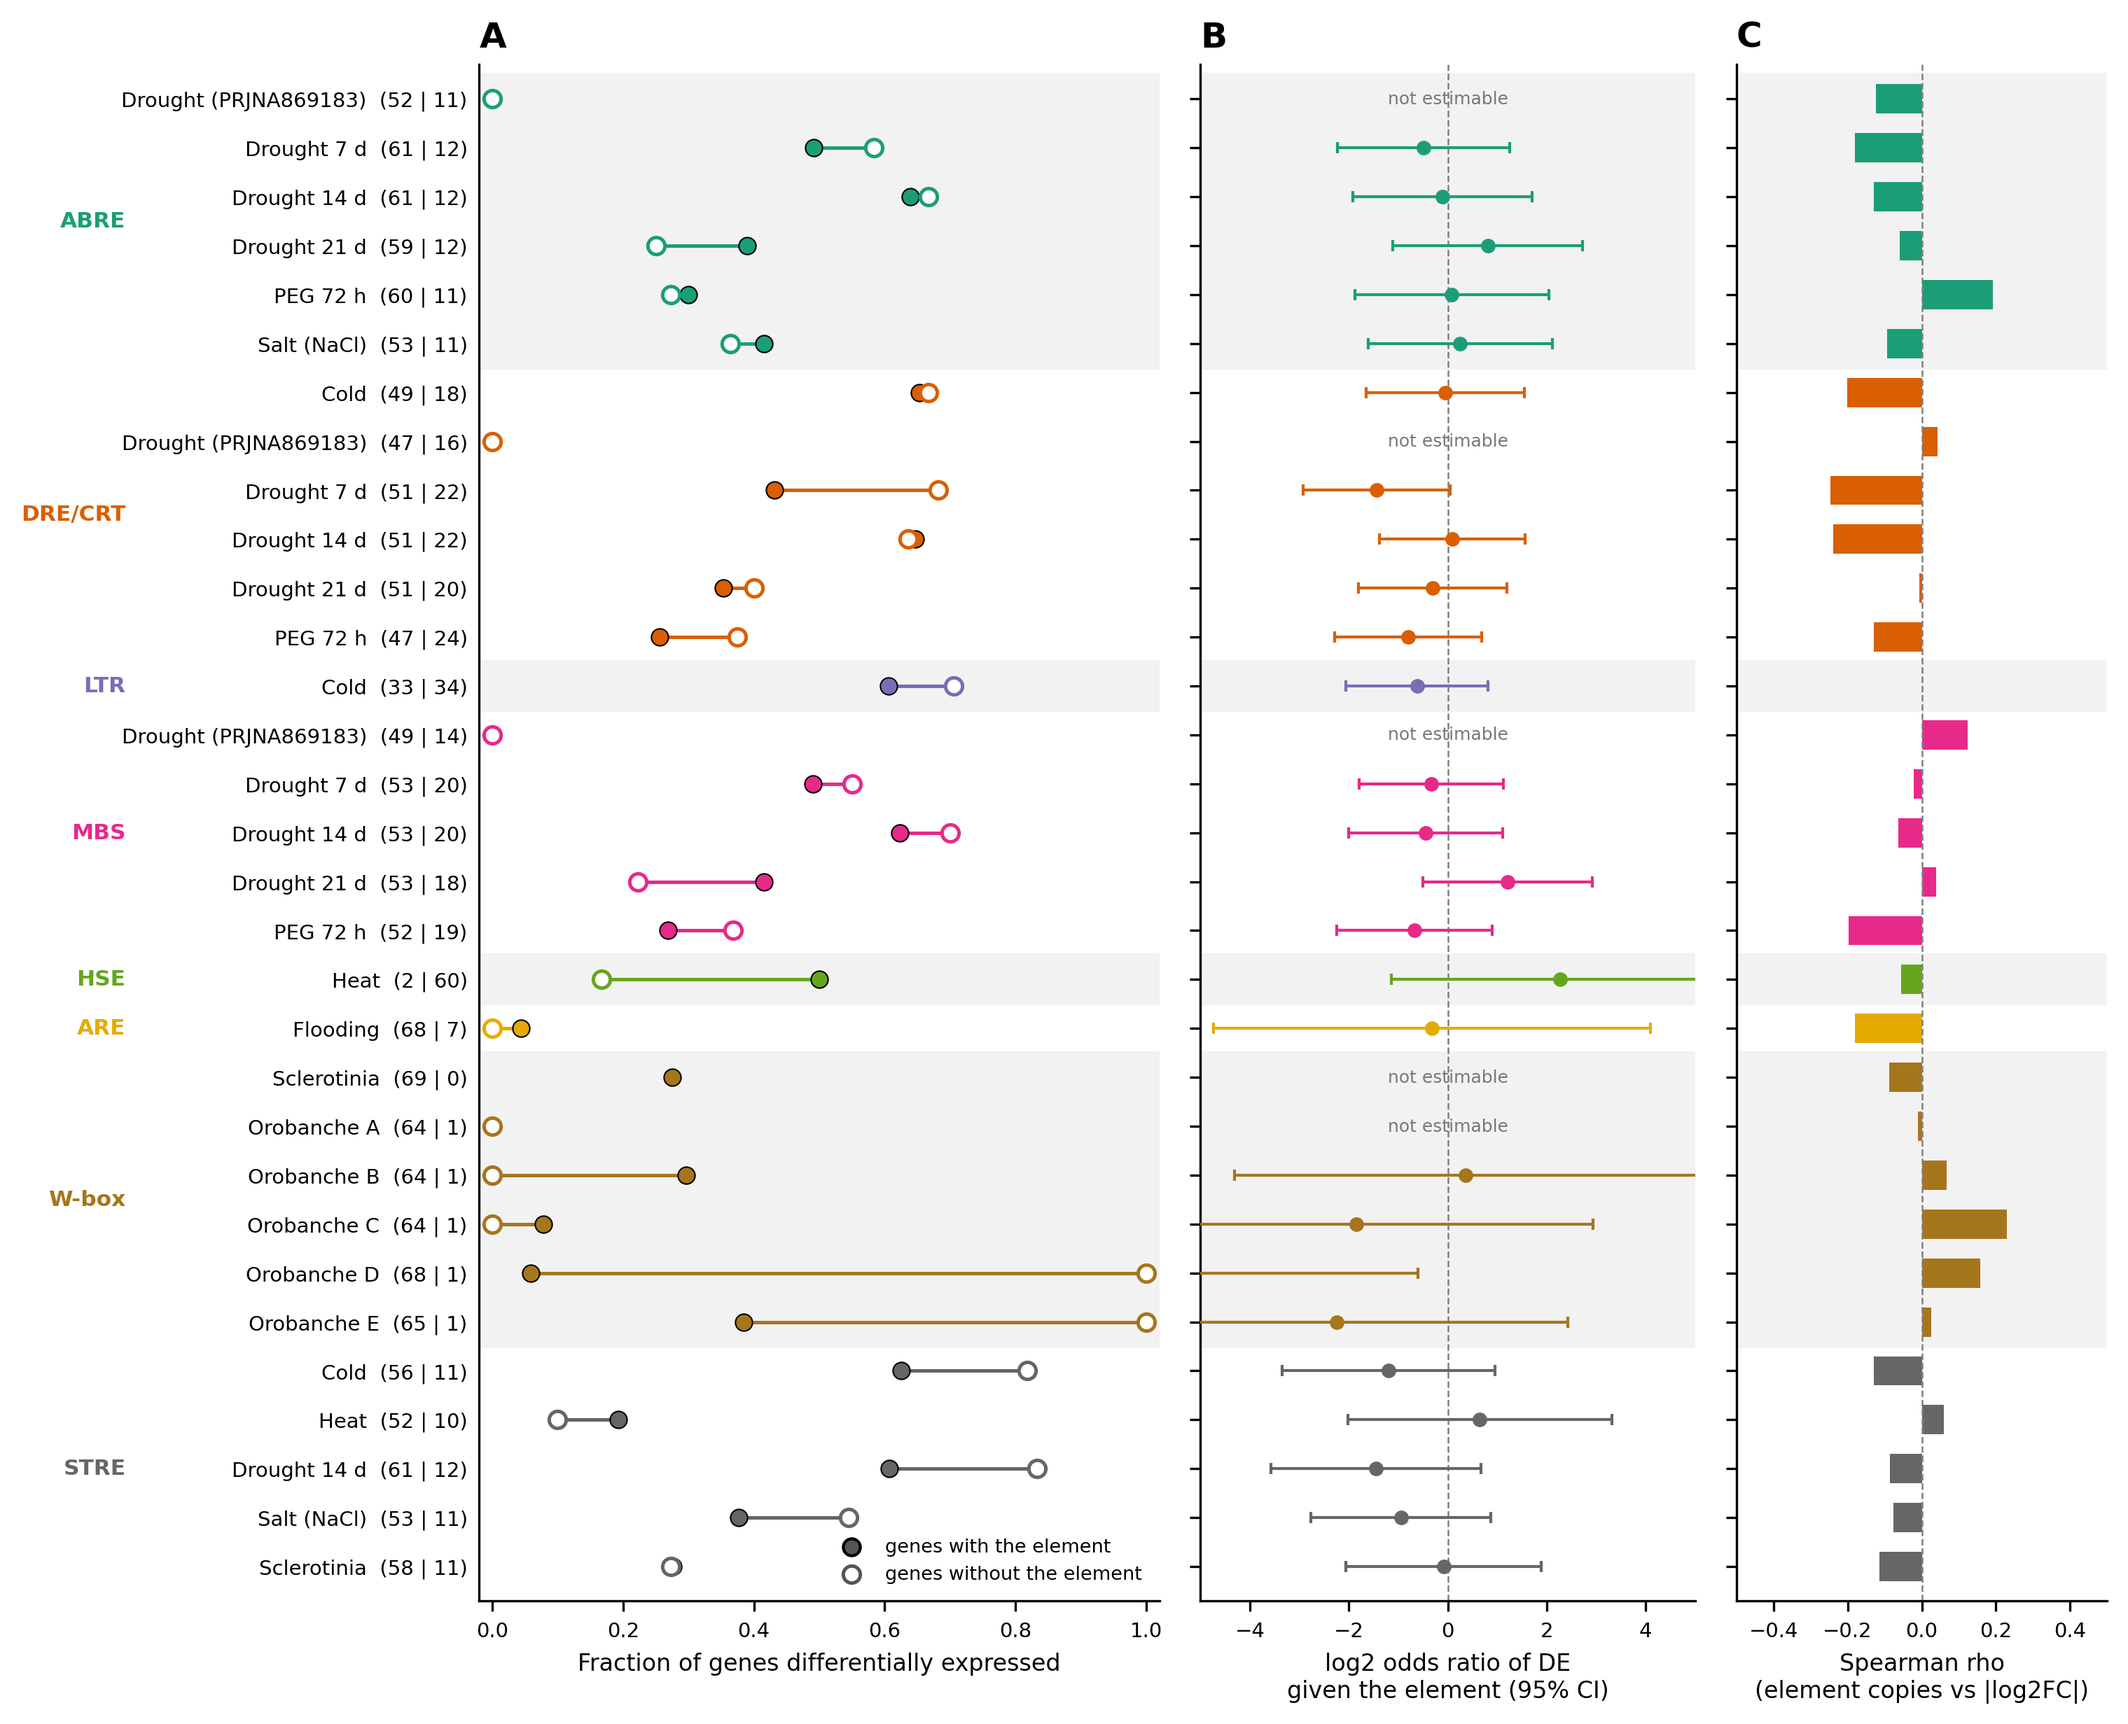
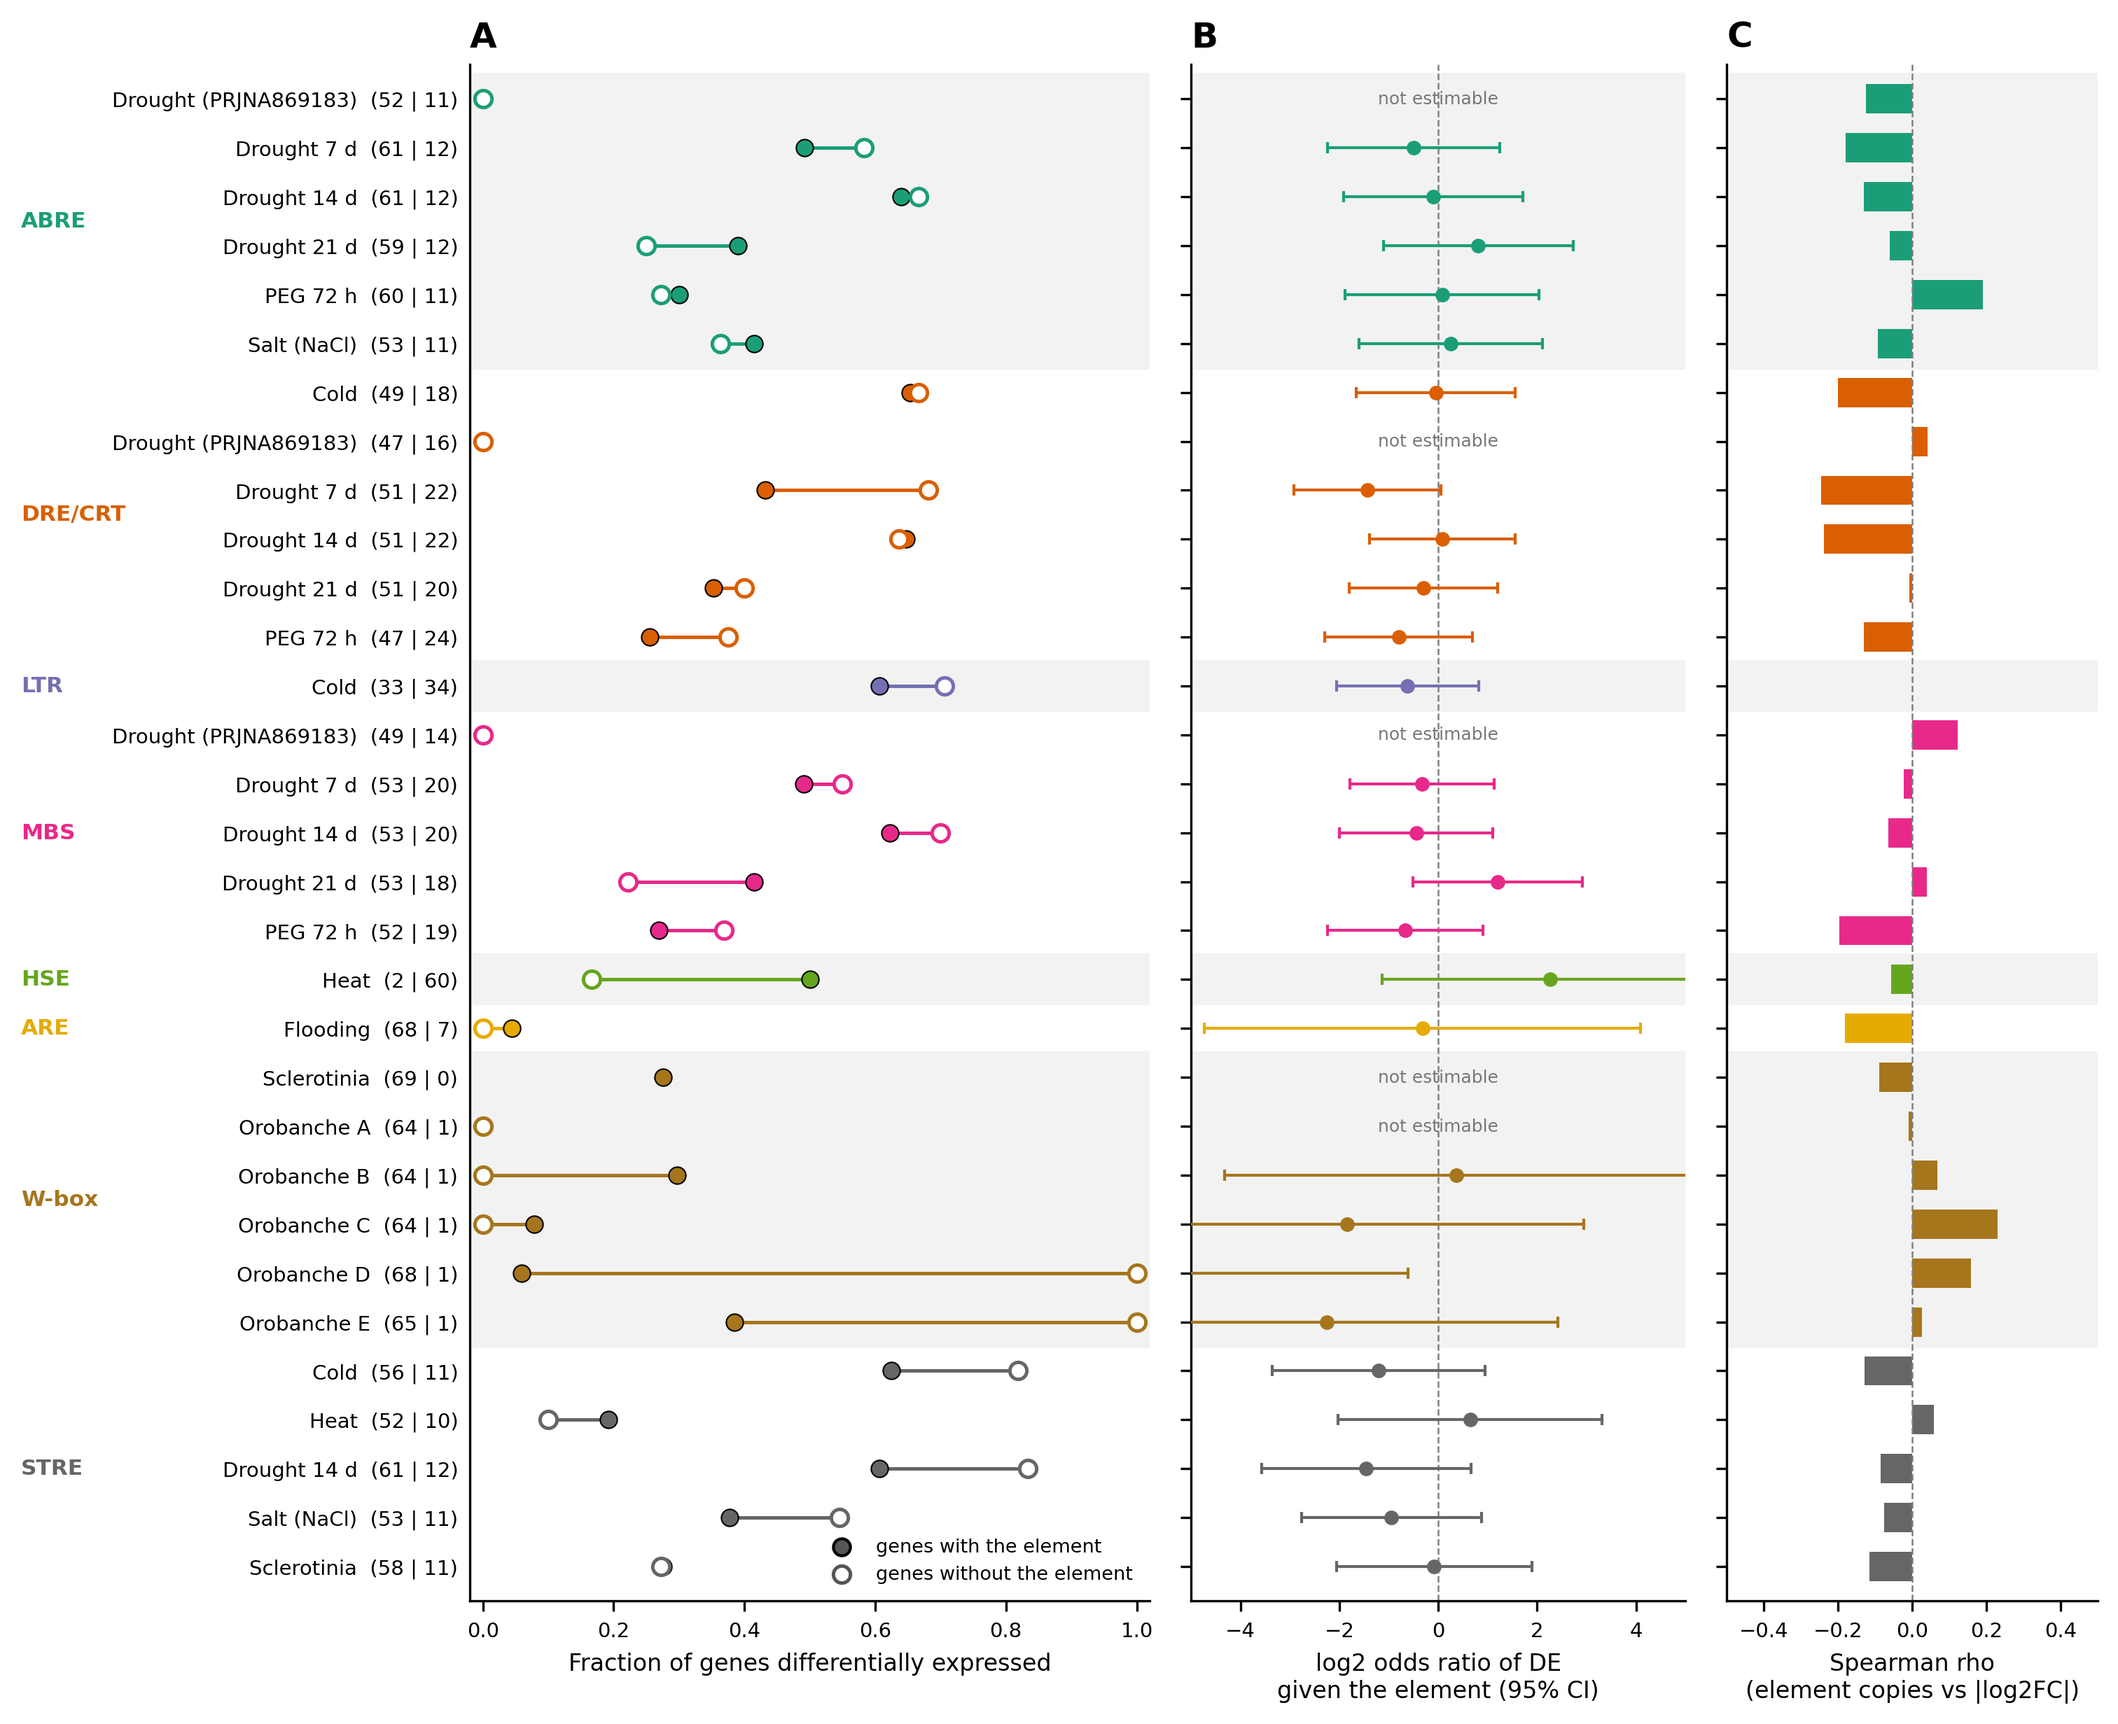
Fig 5: element labels left-aligned

diff --git a/08_figures/cis_vs_expression.py b/08_figures/cis_vs_expression.py
@@ -253,7 +253,7 @@ for k_e, e in enumerate(elems):
     if k_e % 2 == 0:
         for ax in (ax1, ax2, ax3):
             ax.axhspan(bot, top, color="#f2f2f2", zorder=0)
-    ax1.text(-0.52, (top + bot) / 2, ELEMENT_LABEL.get(e, e), transform=ax1.get_yaxis_transform(), ha="right", va="center",
+    ax1.text(-0.66, (top + bot) / 2, ELEMENT_LABEL.get(e, e), transform=ax1.get_yaxis_transform(), ha="left", va="center",
              fontsize=7.5, fontweight="bold", color=COL[e])
     start += k
 ax1.tick_params(axis="y", pad=4, length=0)
